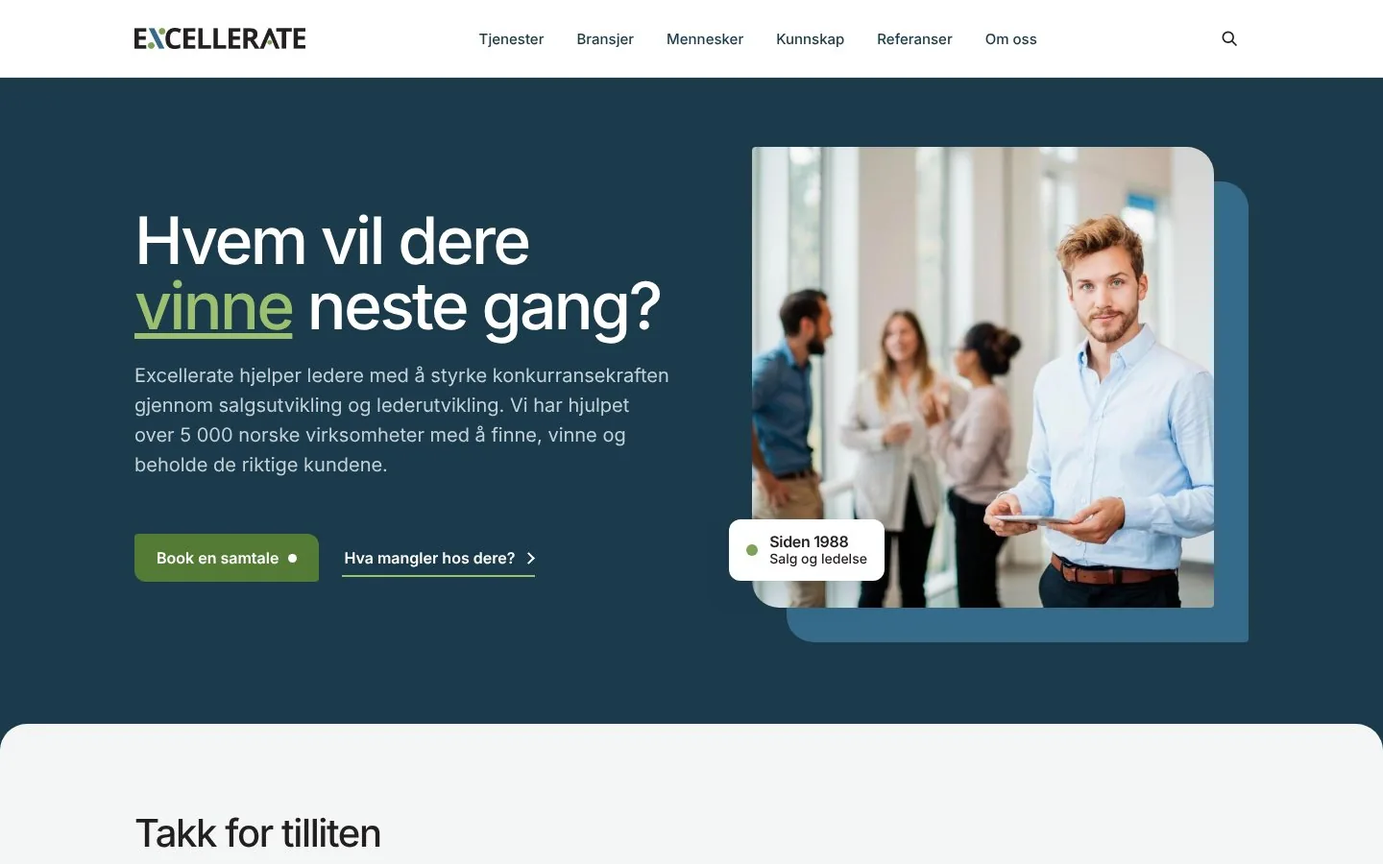
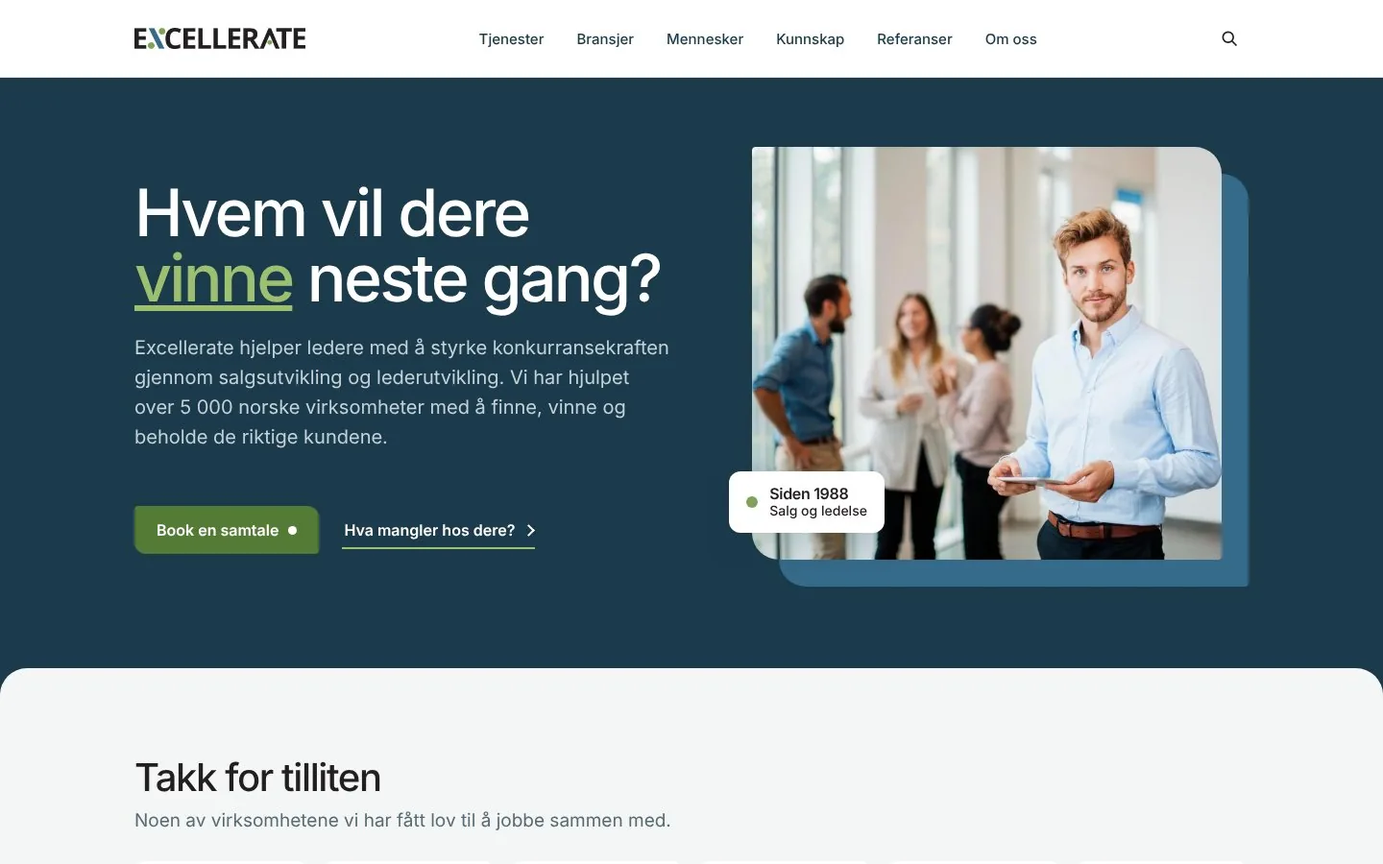
Gjør forsidens hero-bilde likt Tjenester-sidenes (høyde, hjørne, brytningspunkt)
Tom la merke til at bildet på forsiden var en annen størrelse enn på
Tjenester-undersidene, på både desktop og mobil. Sammenligning av de to
reglene viste tre reelle forskjeller:

- Høyde på desktop: 480px (forside) mot 430px (Tjenester)
- Hjørneform: vanlig 18px avrunding (forside) mot Excellerates etablerte
  signaturhjørne 4px/28px/4px/28px (Tjenester) - forsiden var avviket
  fra husstilen, ikke omvendt
- Brytningspunkt til mobilvisning: 860px (forside) mot 1000px (Tjenester),
  som også ga ulik oppførsel på nettbrettbredde

Forsidens hero (.hph) er nå justert til å bruke samme verdier som
Tjenester-sidenes (.svhi): 430px/signaturhjørne/28px avstand på desktop,
300px fast høyde på mobil, og samme 1000px brytningspunkt for hele
hero-seksjonen.

Verifisert med automatisert sammenligning av faktisk rendret bildehøyde
på forsiden mot tjenester-salg.html ved to skjermbredder (identisk på
begge), og visuell kontroll av begge sider før push.

Claude-Session: https://claude.ai/code/session_01GkZzrbAoMX9QcQgWtJRm9z

Changed region(s): [[0.0, 0.1556, 1.0, 0.8711], [0.0938, 0.2178, 0.5, 0.6844], [0.0938, 0.8711, 0.5, 0.9956]]

diff --git a/bransjer.html b/bransjer.html
@@ -396,8 +396,8 @@ h1,h2,h3,h4{letter-spacing:-0.035em}
 .hero::after{content:"";position:absolute;left:0;right:0;bottom:-1px;height:28px;background:#F3F6F5;border-radius:28px 28px 0 0}
 .hero h1{font-size:68px!important;line-height:68px!important;font-weight:500!important;letter-spacing:-0.04em!important}
 .hero h1 em{font-style:normal;color:#9CC06F;text-decoration:underline}
-.hph{position:relative;margin:0 36px 36px 0}.hph::before{content:"";position:absolute;left:36px;top:36px;right:-36px;bottom:-36px;background:#356A89;border-radius:18px}
-.hph img{position:relative;display:block;width:100%;height:480px;object-fit:cover;border-radius:18px}
+.hph{position:relative;margin:0 28px 28px 0}.hph::before{content:"";position:absolute;inset:28px -28px -28px 28px;background:#356A89;border-radius:4px 28px 4px 28px}
+.hph img{position:relative;display:block;width:100%;height:430px;object-fit:cover;border-radius:4px 28px 4px 28px}
 .hpill{position:absolute;left:-24px;bottom:28px;background:#fff;color:#231F20;border-radius:12px;padding:14px 18px;box-shadow:0 12px 30px rgba(0,0,0,.22);display:flex;gap:12px;align-items:center;font-size:14px;line-height:18px}.hpill b{display:block;font-size:16px;letter-spacing:-.02em;font-weight:600}.hpill i{width:12px;height:12px;border-radius:50%;background:#7EA257}
 /* inngangskort */
 .ing{clip-path:none;border-radius:4px 20px 4px 20px;position:relative;overflow:hidden}
@@ -438,7 +438,7 @@ h1,h2,h3,h4{letter-spacing:-0.035em}
 .hero .hgrid{position:relative;z-index:1;width:100%;display:grid;grid-template-columns:1.05fr .95fr;gap:72px;align-items:center;padding-top:72px;padding-bottom:112px}
 .hlead{margin-top:24px;font-size:20px;line-height:1.55;color:#C5D2D8;max-width:28em}
 .hbtn{display:flex;gap:24px;flex-wrap:wrap;align-items:center}
-@media (max-width:860px){.hero .hgrid{grid-template-columns:1fr;padding-top:40px;padding-bottom:72px}.hero .hgrid>div:first-child{order:2}.hph{order:1;margin-right:24px;margin-bottom:24px}.hph::before{left:24px;top:24px;right:-24px;bottom:-24px}.hph img{height:clamp(220px,50vw,360px)}.hpill{left:-8px}}
+@media (max-width:1000px){.hero .hgrid{grid-template-columns:1fr;padding-top:40px;padding-bottom:72px}.hero .hgrid>div:first-child{order:2}.hph{order:1;margin:0 18px 18px 0}.hph::before{inset:18px -18px -18px 18px}.hph img{height:300px}.hpill{left:-8px}}
 /* kundelogoer: 2 rader a 6, i farger, i ro */
 .lgrid{display:grid;grid-template-columns:repeat(6,minmax(0,1fr));gap:16px;padding-bottom:40px}
 .lc{height:104px;background:#fff;border-radius:12px;display:flex;align-items:center;justify-content:center;padding:18px 22px}

diff --git a/fagekspert-anne-katrine-branen.html b/fagekspert-anne-katrine-branen.html
@@ -396,8 +396,8 @@ h1,h2,h3,h4{letter-spacing:-0.035em}
 .hero::after{content:"";position:absolute;left:0;right:0;bottom:-1px;height:28px;background:#F3F6F5;border-radius:28px 28px 0 0}
 .hero h1{font-size:68px!important;line-height:68px!important;font-weight:500!important;letter-spacing:-0.04em!important}
 .hero h1 em{font-style:normal;color:#9CC06F;text-decoration:underline}
-.hph{position:relative;margin:0 36px 36px 0}.hph::before{content:"";position:absolute;left:36px;top:36px;right:-36px;bottom:-36px;background:#356A89;border-radius:18px}
-.hph img{position:relative;display:block;width:100%;height:480px;object-fit:cover;border-radius:18px}
+.hph{position:relative;margin:0 28px 28px 0}.hph::before{content:"";position:absolute;inset:28px -28px -28px 28px;background:#356A89;border-radius:4px 28px 4px 28px}
+.hph img{position:relative;display:block;width:100%;height:430px;object-fit:cover;border-radius:4px 28px 4px 28px}
 .hpill{position:absolute;left:-24px;bottom:28px;background:#fff;color:#231F20;border-radius:12px;padding:14px 18px;box-shadow:0 12px 30px rgba(0,0,0,.22);display:flex;gap:12px;align-items:center;font-size:14px;line-height:18px}.hpill b{display:block;font-size:16px;letter-spacing:-.02em;font-weight:600}.hpill i{width:12px;height:12px;border-radius:50%;background:#7EA257}
 /* inngangskort */
 .ing{clip-path:none;border-radius:4px 20px 4px 20px;position:relative;overflow:hidden}
@@ -438,7 +438,7 @@ h1,h2,h3,h4{letter-spacing:-0.035em}
 .hero .hgrid{position:relative;z-index:1;width:100%;display:grid;grid-template-columns:1.05fr .95fr;gap:72px;align-items:center;padding-top:72px;padding-bottom:112px}
 .hlead{margin-top:24px;font-size:20px;line-height:1.55;color:#C5D2D8;max-width:28em}
 .hbtn{display:flex;gap:24px;flex-wrap:wrap;align-items:center}
-@media (max-width:860px){.hero .hgrid{grid-template-columns:1fr;padding-top:40px;padding-bottom:72px}.hero .hgrid>div:first-child{order:2}.hph{order:1;margin-right:24px;margin-bottom:24px}.hph::before{left:24px;top:24px;right:-24px;bottom:-24px}.hph img{height:clamp(220px,50vw,360px)}.hpill{left:-8px}}
+@media (max-width:1000px){.hero .hgrid{grid-template-columns:1fr;padding-top:40px;padding-bottom:72px}.hero .hgrid>div:first-child{order:2}.hph{order:1;margin:0 18px 18px 0}.hph::before{inset:18px -18px -18px 18px}.hph img{height:300px}.hpill{left:-8px}}
 /* kundelogoer: 2 rader a 6, i farger, i ro */
 .lgrid{display:grid;grid-template-columns:repeat(6,minmax(0,1fr));gap:16px;padding-bottom:40px}
 .lc{height:104px;background:#fff;border-radius:12px;display:flex;align-items:center;justify-content:center;padding:18px 22px}

diff --git a/fagekspert-arvid-madland-lyngnes.html b/fagekspert-arvid-madland-lyngnes.html
@@ -396,8 +396,8 @@ h1,h2,h3,h4{letter-spacing:-0.035em}
 .hero::after{content:"";position:absolute;left:0;right:0;bottom:-1px;height:28px;background:#F3F6F5;border-radius:28px 28px 0 0}
 .hero h1{font-size:68px!important;line-height:68px!important;font-weight:500!important;letter-spacing:-0.04em!important}
 .hero h1 em{font-style:normal;color:#9CC06F;text-decoration:underline}
-.hph{position:relative;margin:0 36px 36px 0}.hph::before{content:"";position:absolute;left:36px;top:36px;right:-36px;bottom:-36px;background:#356A89;border-radius:18px}
-.hph img{position:relative;display:block;width:100%;height:480px;object-fit:cover;border-radius:18px}
+.hph{position:relative;margin:0 28px 28px 0}.hph::before{content:"";position:absolute;inset:28px -28px -28px 28px;background:#356A89;border-radius:4px 28px 4px 28px}
+.hph img{position:relative;display:block;width:100%;height:430px;object-fit:cover;border-radius:4px 28px 4px 28px}
 .hpill{position:absolute;left:-24px;bottom:28px;background:#fff;color:#231F20;border-radius:12px;padding:14px 18px;box-shadow:0 12px 30px rgba(0,0,0,.22);display:flex;gap:12px;align-items:center;font-size:14px;line-height:18px}.hpill b{display:block;font-size:16px;letter-spacing:-.02em;font-weight:600}.hpill i{width:12px;height:12px;border-radius:50%;background:#7EA257}
 /* inngangskort */
 .ing{clip-path:none;border-radius:4px 20px 4px 20px;position:relative;overflow:hidden}
@@ -438,7 +438,7 @@ h1,h2,h3,h4{letter-spacing:-0.035em}
 .hero .hgrid{position:relative;z-index:1;width:100%;display:grid;grid-template-columns:1.05fr .95fr;gap:72px;align-items:center;padding-top:72px;padding-bottom:112px}
 .hlead{margin-top:24px;font-size:20px;line-height:1.55;color:#C5D2D8;max-width:28em}
 .hbtn{display:flex;gap:24px;flex-wrap:wrap;align-items:center}
-@media (max-width:860px){.hero .hgrid{grid-template-columns:1fr;padding-top:40px;padding-bottom:72px}.hero .hgrid>div:first-child{order:2}.hph{order:1;margin-right:24px;margin-bottom:24px}.hph::before{left:24px;top:24px;right:-24px;bottom:-24px}.hph img{height:clamp(220px,50vw,360px)}.hpill{left:-8px}}
+@media (max-width:1000px){.hero .hgrid{grid-template-columns:1fr;padding-top:40px;padding-bottom:72px}.hero .hgrid>div:first-child{order:2}.hph{order:1;margin:0 18px 18px 0}.hph::before{inset:18px -18px -18px 18px}.hph img{height:300px}.hpill{left:-8px}}
 /* kundelogoer: 2 rader a 6, i farger, i ro */
 .lgrid{display:grid;grid-template-columns:repeat(6,minmax(0,1fr));gap:16px;padding-bottom:40px}
 .lc{height:104px;background:#fff;border-radius:12px;display:flex;align-items:center;justify-content:center;padding:18px 22px}

diff --git a/fagekspert-atle-olsen.html b/fagekspert-atle-olsen.html
@@ -396,8 +396,8 @@ h1,h2,h3,h4{letter-spacing:-0.035em}
 .hero::after{content:"";position:absolute;left:0;right:0;bottom:-1px;height:28px;background:#F3F6F5;border-radius:28px 28px 0 0}
 .hero h1{font-size:68px!important;line-height:68px!important;font-weight:500!important;letter-spacing:-0.04em!important}
 .hero h1 em{font-style:normal;color:#9CC06F;text-decoration:underline}
-.hph{position:relative;margin:0 36px 36px 0}.hph::before{content:"";position:absolute;left:36px;top:36px;right:-36px;bottom:-36px;background:#356A89;border-radius:18px}
-.hph img{position:relative;display:block;width:100%;height:480px;object-fit:cover;border-radius:18px}
+.hph{position:relative;margin:0 28px 28px 0}.hph::before{content:"";position:absolute;inset:28px -28px -28px 28px;background:#356A89;border-radius:4px 28px 4px 28px}
+.hph img{position:relative;display:block;width:100%;height:430px;object-fit:cover;border-radius:4px 28px 4px 28px}
 .hpill{position:absolute;left:-24px;bottom:28px;background:#fff;color:#231F20;border-radius:12px;padding:14px 18px;box-shadow:0 12px 30px rgba(0,0,0,.22);display:flex;gap:12px;align-items:center;font-size:14px;line-height:18px}.hpill b{display:block;font-size:16px;letter-spacing:-.02em;font-weight:600}.hpill i{width:12px;height:12px;border-radius:50%;background:#7EA257}
 /* inngangskort */
 .ing{clip-path:none;border-radius:4px 20px 4px 20px;position:relative;overflow:hidden}
@@ -438,7 +438,7 @@ h1,h2,h3,h4{letter-spacing:-0.035em}
 .hero .hgrid{position:relative;z-index:1;width:100%;display:grid;grid-template-columns:1.05fr .95fr;gap:72px;align-items:center;padding-top:72px;padding-bottom:112px}
 .hlead{margin-top:24px;font-size:20px;line-height:1.55;color:#C5D2D8;max-width:28em}
 .hbtn{display:flex;gap:24px;flex-wrap:wrap;align-items:center}
-@media (max-width:860px){.hero .hgrid{grid-template-columns:1fr;padding-top:40px;padding-bottom:72px}.hero .hgrid>div:first-child{order:2}.hph{order:1;margin-right:24px;margin-bottom:24px}.hph::before{left:24px;top:24px;right:-24px;bottom:-24px}.hph img{height:clamp(220px,50vw,360px)}.hpill{left:-8px}}
+@media (max-width:1000px){.hero .hgrid{grid-template-columns:1fr;padding-top:40px;padding-bottom:72px}.hero .hgrid>div:first-child{order:2}.hph{order:1;margin:0 18px 18px 0}.hph::before{inset:18px -18px -18px 18px}.hph img{height:300px}.hpill{left:-8px}}
 /* kundelogoer: 2 rader a 6, i farger, i ro */
 .lgrid{display:grid;grid-template-columns:repeat(6,minmax(0,1fr));gap:16px;padding-bottom:40px}
 .lc{height:104px;background:#fff;border-radius:12px;display:flex;align-items:center;justify-content:center;padding:18px 22px}

diff --git a/fagekspert-bard-fossli-jensen.html b/fagekspert-bard-fossli-jensen.html
@@ -396,8 +396,8 @@ h1,h2,h3,h4{letter-spacing:-0.035em}
 .hero::after{content:"";position:absolute;left:0;right:0;bottom:-1px;height:28px;background:#F3F6F5;border-radius:28px 28px 0 0}
 .hero h1{font-size:68px!important;line-height:68px!important;font-weight:500!important;letter-spacing:-0.04em!important}
 .hero h1 em{font-style:normal;color:#9CC06F;text-decoration:underline}
-.hph{position:relative;margin:0 36px 36px 0}.hph::before{content:"";position:absolute;left:36px;top:36px;right:-36px;bottom:-36px;background:#356A89;border-radius:18px}
-.hph img{position:relative;display:block;width:100%;height:480px;object-fit:cover;border-radius:18px}
+.hph{position:relative;margin:0 28px 28px 0}.hph::before{content:"";position:absolute;inset:28px -28px -28px 28px;background:#356A89;border-radius:4px 28px 4px 28px}
+.hph img{position:relative;display:block;width:100%;height:430px;object-fit:cover;border-radius:4px 28px 4px 28px}
 .hpill{position:absolute;left:-24px;bottom:28px;background:#fff;color:#231F20;border-radius:12px;padding:14px 18px;box-shadow:0 12px 30px rgba(0,0,0,.22);display:flex;gap:12px;align-items:center;font-size:14px;line-height:18px}.hpill b{display:block;font-size:16px;letter-spacing:-.02em;font-weight:600}.hpill i{width:12px;height:12px;border-radius:50%;background:#7EA257}
 /* inngangskort */
 .ing{clip-path:none;border-radius:4px 20px 4px 20px;position:relative;overflow:hidden}
@@ -438,7 +438,7 @@ h1,h2,h3,h4{letter-spacing:-0.035em}
 .hero .hgrid{position:relative;z-index:1;width:100%;display:grid;grid-template-columns:1.05fr .95fr;gap:72px;align-items:center;padding-top:72px;padding-bottom:112px}
 .hlead{margin-top:24px;font-size:20px;line-height:1.55;color:#C5D2D8;max-width:28em}
 .hbtn{display:flex;gap:24px;flex-wrap:wrap;align-items:center}
-@media (max-width:860px){.hero .hgrid{grid-template-columns:1fr;padding-top:40px;padding-bottom:72px}.hero .hgrid>div:first-child{order:2}.hph{order:1;margin-right:24px;margin-bottom:24px}.hph::before{left:24px;top:24px;right:-24px;bottom:-24px}.hph img{height:clamp(220px,50vw,360px)}.hpill{left:-8px}}
+@media (max-width:1000px){.hero .hgrid{grid-template-columns:1fr;padding-top:40px;padding-bottom:72px}.hero .hgrid>div:first-child{order:2}.hph{order:1;margin:0 18px 18px 0}.hph::before{inset:18px -18px -18px 18px}.hph img{height:300px}.hpill{left:-8px}}
 /* kundelogoer: 2 rader a 6, i farger, i ro */
 .lgrid{display:grid;grid-template-columns:repeat(6,minmax(0,1fr));gap:16px;padding-bottom:40px}
 .lc{height:104px;background:#fff;border-radius:12px;display:flex;align-items:center;justify-content:center;padding:18px 22px}

diff --git a/fagekspert-carl-haakon-klafstad.html b/fagekspert-carl-haakon-klafstad.html
@@ -396,8 +396,8 @@ h1,h2,h3,h4{letter-spacing:-0.035em}
 .hero::after{content:"";position:absolute;left:0;right:0;bottom:-1px;height:28px;background:#F3F6F5;border-radius:28px 28px 0 0}
 .hero h1{font-size:68px!important;line-height:68px!important;font-weight:500!important;letter-spacing:-0.04em!important}
 .hero h1 em{font-style:normal;color:#9CC06F;text-decoration:underline}
-.hph{position:relative;margin:0 36px 36px 0}.hph::before{content:"";position:absolute;left:36px;top:36px;right:-36px;bottom:-36px;background:#356A89;border-radius:18px}
-.hph img{position:relative;display:block;width:100%;height:480px;object-fit:cover;border-radius:18px}
+.hph{position:relative;margin:0 28px 28px 0}.hph::before{content:"";position:absolute;inset:28px -28px -28px 28px;background:#356A89;border-radius:4px 28px 4px 28px}
+.hph img{position:relative;display:block;width:100%;height:430px;object-fit:cover;border-radius:4px 28px 4px 28px}
 .hpill{position:absolute;left:-24px;bottom:28px;background:#fff;color:#231F20;border-radius:12px;padding:14px 18px;box-shadow:0 12px 30px rgba(0,0,0,.22);display:flex;gap:12px;align-items:center;font-size:14px;line-height:18px}.hpill b{display:block;font-size:16px;letter-spacing:-.02em;font-weight:600}.hpill i{width:12px;height:12px;border-radius:50%;background:#7EA257}
 /* inngangskort */
 .ing{clip-path:none;border-radius:4px 20px 4px 20px;position:relative;overflow:hidden}
@@ -438,7 +438,7 @@ h1,h2,h3,h4{letter-spacing:-0.035em}
 .hero .hgrid{position:relative;z-index:1;width:100%;display:grid;grid-template-columns:1.05fr .95fr;gap:72px;align-items:center;padding-top:72px;padding-bottom:112px}
 .hlead{margin-top:24px;font-size:20px;line-height:1.55;color:#C5D2D8;max-width:28em}
 .hbtn{display:flex;gap:24px;flex-wrap:wrap;align-items:center}
-@media (max-width:860px){.hero .hgrid{grid-template-columns:1fr;padding-top:40px;padding-bottom:72px}.hero .hgrid>div:first-child{order:2}.hph{order:1;margin-right:24px;margin-bottom:24px}.hph::before{left:24px;top:24px;right:-24px;bottom:-24px}.hph img{height:clamp(220px,50vw,360px)}.hpill{left:-8px}}
+@media (max-width:1000px){.hero .hgrid{grid-template-columns:1fr;padding-top:40px;padding-bottom:72px}.hero .hgrid>div:first-child{order:2}.hph{order:1;margin:0 18px 18px 0}.hph::before{inset:18px -18px -18px 18px}.hph img{height:300px}.hpill{left:-8px}}
 /* kundelogoer: 2 rader a 6, i farger, i ro */
 .lgrid{display:grid;grid-template-columns:repeat(6,minmax(0,1fr));gap:16px;padding-bottom:40px}
 .lc{height:104px;background:#fff;border-radius:12px;display:flex;align-items:center;justify-content:center;padding:18px 22px}

diff --git a/fagekspert-erik-simensen.html b/fagekspert-erik-simensen.html
@@ -396,8 +396,8 @@ h1,h2,h3,h4{letter-spacing:-0.035em}
 .hero::after{content:"";position:absolute;left:0;right:0;bottom:-1px;height:28px;background:#F3F6F5;border-radius:28px 28px 0 0}
 .hero h1{font-size:68px!important;line-height:68px!important;font-weight:500!important;letter-spacing:-0.04em!important}
 .hero h1 em{font-style:normal;color:#9CC06F;text-decoration:underline}
-.hph{position:relative;margin:0 36px 36px 0}.hph::before{content:"";position:absolute;left:36px;top:36px;right:-36px;bottom:-36px;background:#356A89;border-radius:18px}
-.hph img{position:relative;display:block;width:100%;height:480px;object-fit:cover;border-radius:18px}
+.hph{position:relative;margin:0 28px 28px 0}.hph::before{content:"";position:absolute;inset:28px -28px -28px 28px;background:#356A89;border-radius:4px 28px 4px 28px}
+.hph img{position:relative;display:block;width:100%;height:430px;object-fit:cover;border-radius:4px 28px 4px 28px}
 .hpill{position:absolute;left:-24px;bottom:28px;background:#fff;color:#231F20;border-radius:12px;padding:14px 18px;box-shadow:0 12px 30px rgba(0,0,0,.22);display:flex;gap:12px;align-items:center;font-size:14px;line-height:18px}.hpill b{display:block;font-size:16px;letter-spacing:-.02em;font-weight:600}.hpill i{width:12px;height:12px;border-radius:50%;background:#7EA257}
 /* inngangskort */
 .ing{clip-path:none;border-radius:4px 20px 4px 20px;position:relative;overflow:hidden}
@@ -438,7 +438,7 @@ h1,h2,h3,h4{letter-spacing:-0.035em}
 .hero .hgrid{position:relative;z-index:1;width:100%;display:grid;grid-template-columns:1.05fr .95fr;gap:72px;align-items:center;padding-top:72px;padding-bottom:112px}
 .hlead{margin-top:24px;font-size:20px;line-height:1.55;color:#C5D2D8;max-width:28em}
 .hbtn{display:flex;gap:24px;flex-wrap:wrap;align-items:center}
-@media (max-width:860px){.hero .hgrid{grid-template-columns:1fr;padding-top:40px;padding-bottom:72px}.hero .hgrid>div:first-child{order:2}.hph{order:1;margin-right:24px;margin-bottom:24px}.hph::before{left:24px;top:24px;right:-24px;bottom:-24px}.hph img{height:clamp(220px,50vw,360px)}.hpill{left:-8px}}
+@media (max-width:1000px){.hero .hgrid{grid-template-columns:1fr;padding-top:40px;padding-bottom:72px}.hero .hgrid>div:first-child{order:2}.hph{order:1;margin:0 18px 18px 0}.hph::before{inset:18px -18px -18px 18px}.hph img{height:300px}.hpill{left:-8px}}
 /* kundelogoer: 2 rader a 6, i farger, i ro */
 .lgrid{display:grid;grid-template-columns:repeat(6,minmax(0,1fr));gap:16px;padding-bottom:40px}
 .lc{height:104px;background:#fff;border-radius:12px;display:flex;align-items:center;justify-content:center;padding:18px 22px}

diff --git a/fagekspert-janick-lowe.html b/fagekspert-janick-lowe.html
@@ -396,8 +396,8 @@ h1,h2,h3,h4{letter-spacing:-0.035em}
 .hero::after{content:"";position:absolute;left:0;right:0;bottom:-1px;height:28px;background:#F3F6F5;border-radius:28px 28px 0 0}
 .hero h1{font-size:68px!important;line-height:68px!important;font-weight:500!important;letter-spacing:-0.04em!important}
 .hero h1 em{font-style:normal;color:#9CC06F;text-decoration:underline}
-.hph{position:relative;margin:0 36px 36px 0}.hph::before{content:"";position:absolute;left:36px;top:36px;right:-36px;bottom:-36px;background:#356A89;border-radius:18px}
-.hph img{position:relative;display:block;width:100%;height:480px;object-fit:cover;border-radius:18px}
+.hph{position:relative;margin:0 28px 28px 0}.hph::before{content:"";position:absolute;inset:28px -28px -28px 28px;background:#356A89;border-radius:4px 28px 4px 28px}
+.hph img{position:relative;display:block;width:100%;height:430px;object-fit:cover;border-radius:4px 28px 4px 28px}
 .hpill{position:absolute;left:-24px;bottom:28px;background:#fff;color:#231F20;border-radius:12px;padding:14px 18px;box-shadow:0 12px 30px rgba(0,0,0,.22);display:flex;gap:12px;align-items:center;font-size:14px;line-height:18px}.hpill b{display:block;font-size:16px;letter-spacing:-.02em;font-weight:600}.hpill i{width:12px;height:12px;border-radius:50%;background:#7EA257}
 /* inngangskort */
 .ing{clip-path:none;border-radius:4px 20px 4px 20px;position:relative;overflow:hidden}
@@ -438,7 +438,7 @@ h1,h2,h3,h4{letter-spacing:-0.035em}
 .hero .hgrid{position:relative;z-index:1;width:100%;display:grid;grid-template-columns:1.05fr .95fr;gap:72px;align-items:center;padding-top:72px;padding-bottom:112px}
 .hlead{margin-top:24px;font-size:20px;line-height:1.55;color:#C5D2D8;max-width:28em}
 .hbtn{display:flex;gap:24px;flex-wrap:wrap;align-items:center}
-@media (max-width:860px){.hero .hgrid{grid-template-columns:1fr;padding-top:40px;padding-bottom:72px}.hero .hgrid>div:first-child{order:2}.hph{order:1;margin-right:24px;margin-bottom:24px}.hph::before{left:24px;top:24px;right:-24px;bottom:-24px}.hph img{height:clamp(220px,50vw,360px)}.hpill{left:-8px}}
+@media (max-width:1000px){.hero .hgrid{grid-template-columns:1fr;padding-top:40px;padding-bottom:72px}.hero .hgrid>div:first-child{order:2}.hph{order:1;margin:0 18px 18px 0}.hph::before{inset:18px -18px -18px 18px}.hph img{height:300px}.hpill{left:-8px}}
 /* kundelogoer: 2 rader a 6, i farger, i ro */
 .lgrid{display:grid;grid-template-columns:repeat(6,minmax(0,1fr));gap:16px;padding-bottom:40px}
 .lc{height:104px;background:#fff;border-radius:12px;display:flex;align-items:center;justify-content:center;padding:18px 22px}

diff --git a/fagekspert-jorg-lian.html b/fagekspert-jorg-lian.html
@@ -396,8 +396,8 @@ h1,h2,h3,h4{letter-spacing:-0.035em}
 .hero::after{content:"";position:absolute;left:0;right:0;bottom:-1px;height:28px;background:#F3F6F5;border-radius:28px 28px 0 0}
 .hero h1{font-size:68px!important;line-height:68px!important;font-weight:500!important;letter-spacing:-0.04em!important}
 .hero h1 em{font-style:normal;color:#9CC06F;text-decoration:underline}
-.hph{position:relative;margin:0 36px 36px 0}.hph::before{content:"";position:absolute;left:36px;top:36px;right:-36px;bottom:-36px;background:#356A89;border-radius:18px}
-.hph img{position:relative;display:block;width:100%;height:480px;object-fit:cover;border-radius:18px}
+.hph{position:relative;margin:0 28px 28px 0}.hph::before{content:"";position:absolute;inset:28px -28px -28px 28px;background:#356A89;border-radius:4px 28px 4px 28px}
+.hph img{position:relative;display:block;width:100%;height:430px;object-fit:cover;border-radius:4px 28px 4px 28px}
 .hpill{position:absolute;left:-24px;bottom:28px;background:#fff;color:#231F20;border-radius:12px;padding:14px 18px;box-shadow:0 12px 30px rgba(0,0,0,.22);display:flex;gap:12px;align-items:center;font-size:14px;line-height:18px}.hpill b{display:block;font-size:16px;letter-spacing:-.02em;font-weight:600}.hpill i{width:12px;height:12px;border-radius:50%;background:#7EA257}
 /* inngangskort */
 .ing{clip-path:none;border-radius:4px 20px 4px 20px;position:relative;overflow:hidden}
@@ -438,7 +438,7 @@ h1,h2,h3,h4{letter-spacing:-0.035em}
 .hero .hgrid{position:relative;z-index:1;width:100%;display:grid;grid-template-columns:1.05fr .95fr;gap:72px;align-items:center;padding-top:72px;padding-bottom:112px}
 .hlead{margin-top:24px;font-size:20px;line-height:1.55;color:#C5D2D8;max-width:28em}
 .hbtn{display:flex;gap:24px;flex-wrap:wrap;align-items:center}
-@media (max-width:860px){.hero .hgrid{grid-template-columns:1fr;padding-top:40px;padding-bottom:72px}.hero .hgrid>div:first-child{order:2}.hph{order:1;margin-right:24px;margin-bottom:24px}.hph::before{left:24px;top:24px;right:-24px;bottom:-24px}.hph img{height:clamp(220px,50vw,360px)}.hpill{left:-8px}}
+@media (max-width:1000px){.hero .hgrid{grid-template-columns:1fr;padding-top:40px;padding-bottom:72px}.hero .hgrid>div:first-child{order:2}.hph{order:1;margin:0 18px 18px 0}.hph::before{inset:18px -18px -18px 18px}.hph img{height:300px}.hpill{left:-8px}}
 /* kundelogoer: 2 rader a 6, i farger, i ro */
 .lgrid{display:grid;grid-template-columns:repeat(6,minmax(0,1fr));gap:16px;padding-bottom:40px}
 .lc{height:104px;background:#fff;border-radius:12px;display:flex;align-items:center;justify-content:center;padding:18px 22px}

diff --git a/fagekspert-leif-ottesen.html b/fagekspert-leif-ottesen.html
@@ -396,8 +396,8 @@ h1,h2,h3,h4{letter-spacing:-0.035em}
 .hero::after{content:"";position:absolute;left:0;right:0;bottom:-1px;height:28px;background:#F3F6F5;border-radius:28px 28px 0 0}
 .hero h1{font-size:68px!important;line-height:68px!important;font-weight:500!important;letter-spacing:-0.04em!important}
 .hero h1 em{font-style:normal;color:#9CC06F;text-decoration:underline}
-.hph{position:relative;margin:0 36px 36px 0}.hph::before{content:"";position:absolute;left:36px;top:36px;right:-36px;bottom:-36px;background:#356A89;border-radius:18px}
-.hph img{position:relative;display:block;width:100%;height:480px;object-fit:cover;border-radius:18px}
+.hph{position:relative;margin:0 28px 28px 0}.hph::before{content:"";position:absolute;inset:28px -28px -28px 28px;background:#356A89;border-radius:4px 28px 4px 28px}
+.hph img{position:relative;display:block;width:100%;height:430px;object-fit:cover;border-radius:4px 28px 4px 28px}
 .hpill{position:absolute;left:-24px;bottom:28px;background:#fff;color:#231F20;border-radius:12px;padding:14px 18px;box-shadow:0 12px 30px rgba(0,0,0,.22);display:flex;gap:12px;align-items:center;font-size:14px;line-height:18px}.hpill b{display:block;font-size:16px;letter-spacing:-.02em;font-weight:600}.hpill i{width:12px;height:12px;border-radius:50%;background:#7EA257}
 /* inngangskort */
 .ing{clip-path:none;border-radius:4px 20px 4px 20px;position:relative;overflow:hidden}
@@ -438,7 +438,7 @@ h1,h2,h3,h4{letter-spacing:-0.035em}
 .hero .hgrid{position:relative;z-index:1;width:100%;display:grid;grid-template-columns:1.05fr .95fr;gap:72px;align-items:center;padding-top:72px;padding-bottom:112px}
 .hlead{margin-top:24px;font-size:20px;line-height:1.55;color:#C5D2D8;max-width:28em}
 .hbtn{display:flex;gap:24px;flex-wrap:wrap;align-items:center}
-@media (max-width:860px){.hero .hgrid{grid-template-columns:1fr;padding-top:40px;padding-bottom:72px}.hero .hgrid>div:first-child{order:2}.hph{order:1;margin-right:24px;margin-bottom:24px}.hph::before{left:24px;top:24px;right:-24px;bottom:-24px}.hph img{height:clamp(220px,50vw,360px)}.hpill{left:-8px}}
+@media (max-width:1000px){.hero .hgrid{grid-template-columns:1fr;padding-top:40px;padding-bottom:72px}.hero .hgrid>div:first-child{order:2}.hph{order:1;margin:0 18px 18px 0}.hph::before{inset:18px -18px -18px 18px}.hph img{height:300px}.hpill{left:-8px}}
 /* kundelogoer: 2 rader a 6, i farger, i ro */
 .lgrid{display:grid;grid-template-columns:repeat(6,minmax(0,1fr));gap:16px;padding-bottom:40px}
 .lc{height:104px;background:#fff;border-radius:12px;display:flex;align-items:center;justify-content:center;padding:18px 22px}

diff --git a/fagekspert-morten-brandt.html b/fagekspert-morten-brandt.html
@@ -396,8 +396,8 @@ h1,h2,h3,h4{letter-spacing:-0.035em}
 .hero::after{content:"";position:absolute;left:0;right:0;bottom:-1px;height:28px;background:#F3F6F5;border-radius:28px 28px 0 0}
 .hero h1{font-size:68px!important;line-height:68px!important;font-weight:500!important;letter-spacing:-0.04em!important}
 .hero h1 em{font-style:normal;color:#9CC06F;text-decoration:underline}
-.hph{position:relative;margin:0 36px 36px 0}.hph::before{content:"";position:absolute;left:36px;top:36px;right:-36px;bottom:-36px;background:#356A89;border-radius:18px}
-.hph img{position:relative;display:block;width:100%;height:480px;object-fit:cover;border-radius:18px}
+.hph{position:relative;margin:0 28px 28px 0}.hph::before{content:"";position:absolute;inset:28px -28px -28px 28px;background:#356A89;border-radius:4px 28px 4px 28px}
+.hph img{position:relative;display:block;width:100%;height:430px;object-fit:cover;border-radius:4px 28px 4px 28px}
 .hpill{position:absolute;left:-24px;bottom:28px;background:#fff;color:#231F20;border-radius:12px;padding:14px 18px;box-shadow:0 12px 30px rgba(0,0,0,.22);display:flex;gap:12px;align-items:center;font-size:14px;line-height:18px}.hpill b{display:block;font-size:16px;letter-spacing:-.02em;font-weight:600}.hpill i{width:12px;height:12px;border-radius:50%;background:#7EA257}
 /* inngangskort */
 .ing{clip-path:none;border-radius:4px 20px 4px 20px;position:relative;overflow:hidden}
@@ -438,7 +438,7 @@ h1,h2,h3,h4{letter-spacing:-0.035em}
 .hero .hgrid{position:relative;z-index:1;width:100%;display:grid;grid-template-columns:1.05fr .95fr;gap:72px;align-items:center;padding-top:72px;padding-bottom:112px}
 .hlead{margin-top:24px;font-size:20px;line-height:1.55;color:#C5D2D8;max-width:28em}
 .hbtn{display:flex;gap:24px;flex-wrap:wrap;align-items:center}
-@media (max-width:860px){.hero .hgrid{grid-template-columns:1fr;padding-top:40px;padding-bottom:72px}.hero .hgrid>div:first-child{order:2}.hph{order:1;margin-right:24px;margin-bottom:24px}.hph::before{left:24px;top:24px;right:-24px;bottom:-24px}.hph img{height:clamp(220px,50vw,360px)}.hpill{left:-8px}}
+@media (max-width:1000px){.hero .hgrid{grid-template-columns:1fr;padding-top:40px;padding-bottom:72px}.hero .hgrid>div:first-child{order:2}.hph{order:1;margin:0 18px 18px 0}.hph::before{inset:18px -18px -18px 18px}.hph img{height:300px}.hpill{left:-8px}}
 /* kundelogoer: 2 rader a 6, i farger, i ro */
 .lgrid{display:grid;grid-template-columns:repeat(6,minmax(0,1fr));gap:16px;padding-bottom:40px}
 .lc{height:104px;background:#fff;border-radius:12px;display:flex;align-items:center;justify-content:center;padding:18px 22px}

diff --git a/fagekspert-neda-maria-kaizumi.html b/fagekspert-neda-maria-kaizumi.html
@@ -396,8 +396,8 @@ h1,h2,h3,h4{letter-spacing:-0.035em}
 .hero::after{content:"";position:absolute;left:0;right:0;bottom:-1px;height:28px;background:#F3F6F5;border-radius:28px 28px 0 0}
 .hero h1{font-size:68px!important;line-height:68px!important;font-weight:500!important;letter-spacing:-0.04em!important}
 .hero h1 em{font-style:normal;color:#9CC06F;text-decoration:underline}
-.hph{position:relative;margin:0 36px 36px 0}.hph::before{content:"";position:absolute;left:36px;top:36px;right:-36px;bottom:-36px;background:#356A89;border-radius:18px}
-.hph img{position:relative;display:block;width:100%;height:480px;object-fit:cover;border-radius:18px}
+.hph{position:relative;margin:0 28px 28px 0}.hph::before{content:"";position:absolute;inset:28px -28px -28px 28px;background:#356A89;border-radius:4px 28px 4px 28px}
+.hph img{position:relative;display:block;width:100%;height:430px;object-fit:cover;border-radius:4px 28px 4px 28px}
 .hpill{position:absolute;left:-24px;bottom:28px;background:#fff;color:#231F20;border-radius:12px;padding:14px 18px;box-shadow:0 12px 30px rgba(0,0,0,.22);display:flex;gap:12px;align-items:center;font-size:14px;line-height:18px}.hpill b{display:block;font-size:16px;letter-spacing:-.02em;font-weight:600}.hpill i{width:12px;height:12px;border-radius:50%;background:#7EA257}
 /* inngangskort */
 .ing{clip-path:none;border-radius:4px 20px 4px 20px;position:relative;overflow:hidden}
@@ -438,7 +438,7 @@ h1,h2,h3,h4{letter-spacing:-0.035em}
 .hero .hgrid{position:relative;z-index:1;width:100%;display:grid;grid-template-columns:1.05fr .95fr;gap:72px;align-items:center;padding-top:72px;padding-bottom:112px}
 .hlead{margin-top:24px;font-size:20px;line-height:1.55;color:#C5D2D8;max-width:28em}
 .hbtn{display:flex;gap:24px;flex-wrap:wrap;align-items:center}
-@media (max-width:860px){.hero .hgrid{grid-template-columns:1fr;padding-top:40px;padding-bottom:72px}.hero .hgrid>div:first-child{order:2}.hph{order:1;margin-right:24px;margin-bottom:24px}.hph::before{left:24px;top:24px;right:-24px;bottom:-24px}.hph img{height:clamp(220px,50vw,360px)}.hpill{left:-8px}}
+@media (max-width:1000px){.hero .hgrid{grid-template-columns:1fr;padding-top:40px;padding-bottom:72px}.hero .hgrid>div:first-child{order:2}.hph{order:1;margin:0 18px 18px 0}.hph::before{inset:18px -18px -18px 18px}.hph img{height:300px}.hpill{left:-8px}}
 /* kundelogoer: 2 rader a 6, i farger, i ro */
 .lgrid{display:grid;grid-template-columns:repeat(6,minmax(0,1fr));gap:16px;padding-bottom:40px}
 .lc{height:104px;background:#fff;border-radius:12px;display:flex;align-items:center;justify-content:center;padding:18px 22px}
